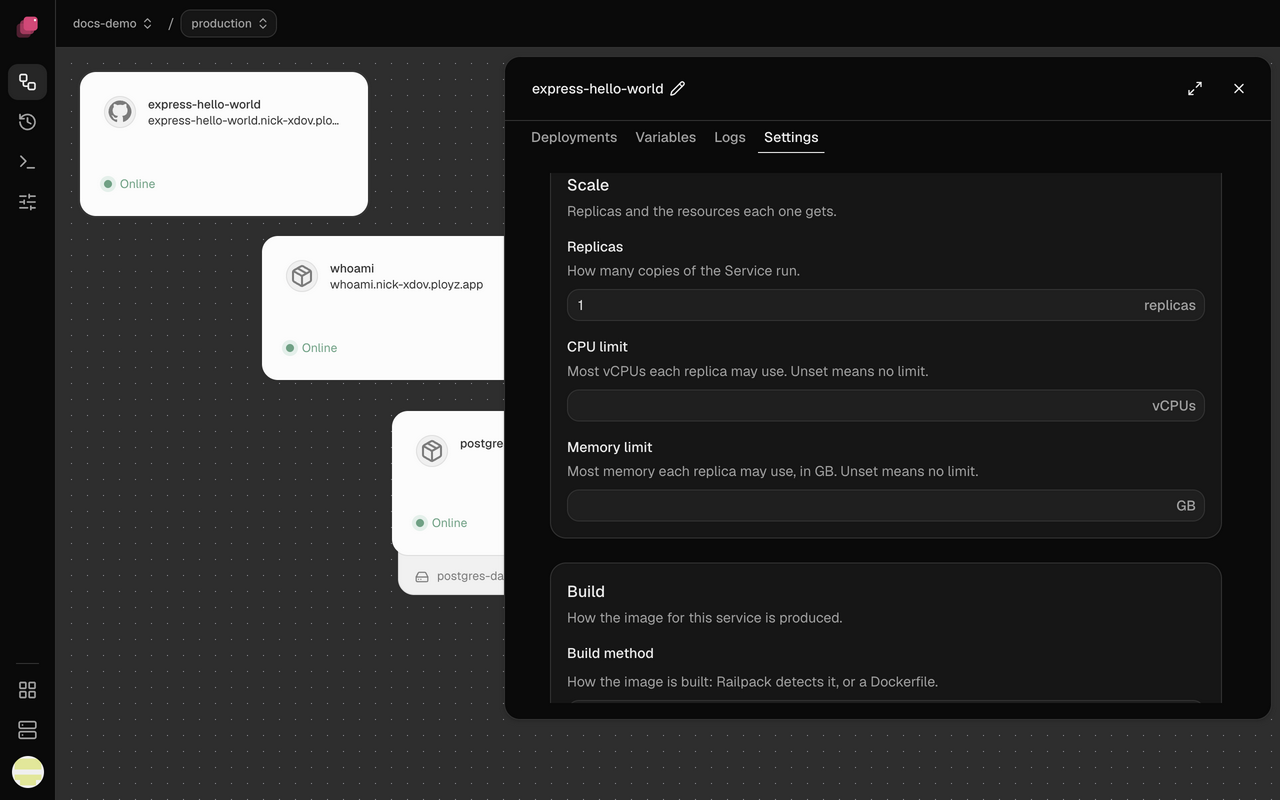
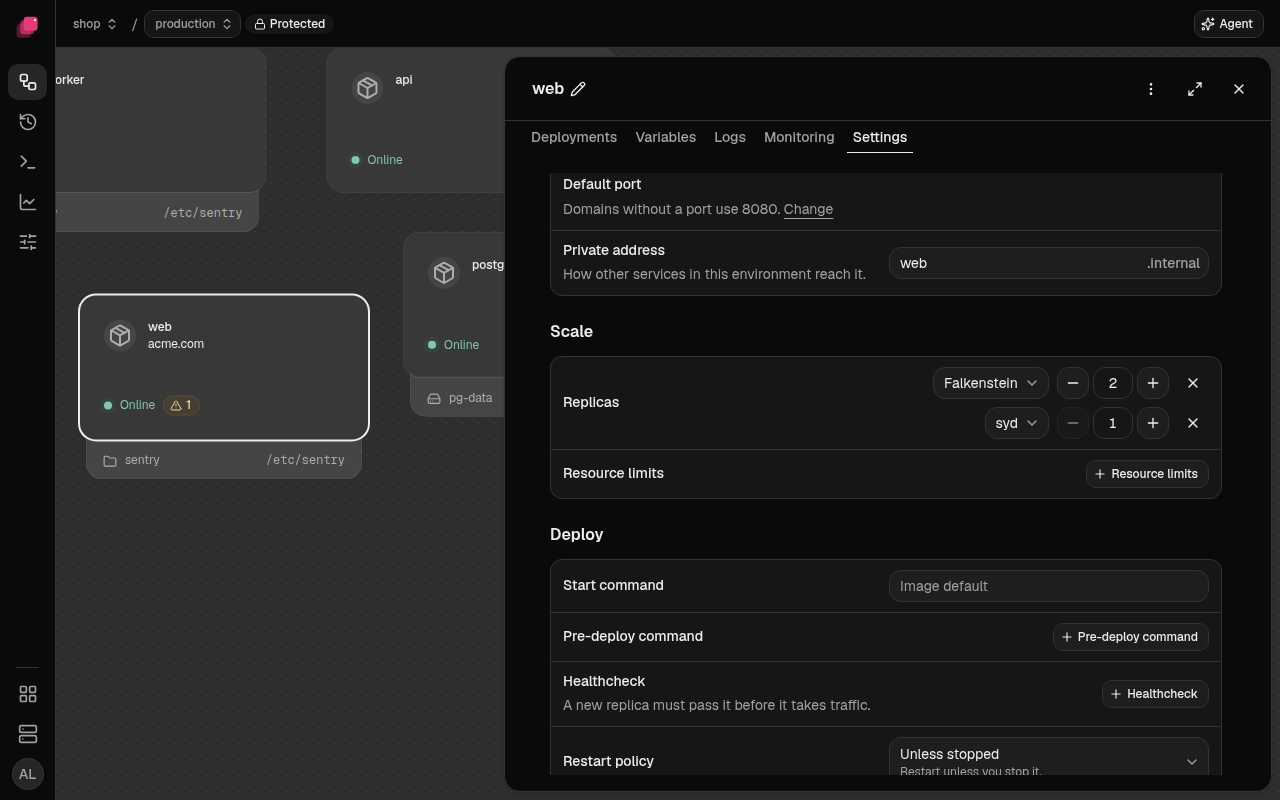
Show the region rows in the Scale screenshot the docs use

diff --git a/docs/user/services/scaling.md b/docs/user/services/scaling.md
@@ -20,7 +20,7 @@ flowchart LR
 3. Run `ployz deploy` on an approved device. Your servers refuse **Deploy** in the dashboard in
    this version of Ployz, see [Deploy from the dashboard](../deploy/deployments.md#deploy-from-the-dashboard).
 
-![Settings → Scale: Replicas with a region and a count, CPU limit and Memory limit](../images/service-settings-scale.png)
+![Settings → Scale: Replicas with a region and a count on each row, and Resource limits](../images/service-settings-scale.png)
 
 Ployz gives each server one replica before any server gets a second. A replica that crashes gets
 no traffic until it recovers. A new replica gets none until it passes its

diff --git a/docs/user/services/settings.md b/docs/user/services/settings.md
@@ -141,7 +141,7 @@ update services that typed the old name in the same deploy. See
 
 ## Scale
 
-![Settings → Scale: Replicas, CPU limit and Memory limit](../images/service-settings-scale.png)
+![Settings → Scale: Replicas with a region and a count on each row, and Resource limits](../images/service-settings-scale.png)
 
 ### Replicas
 
